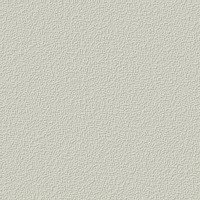
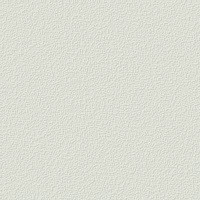
day/night mode switch is working

Changed region(s): [[0.0, 0.0, 1.0, 1.0]]

diff --git a/cr3ui/src/cruimain.cpp b/cr3ui/src/cruimain.cpp
@@ -353,6 +353,7 @@ CRUIMainWidget::CRUIMainWidget()
     setId("MAIN");
     _currentSettings = LVCreatePropsContainer(); // currently active settings
     _newSettings = LVCreatePropsContainer(); // to be edited by Settings editors
+    CRLog::info("Loading settings from %s", crconfig.iniFile.c_str());
     LVStreamRef stream = LVOpenFileStream(crconfig.iniFile.c_str(), LVOM_READ);
     if (!stream.isNull())
         _currentSettings->loadFromStream(stream.get());
@@ -373,7 +374,7 @@ CRUIMainWidget::CRUIMainWidget()
     _currentSettings->setIntDef(PROP_FONT_SIZE, crconfig.defFontSize);
     _currentSettings->setColorDef(PROP_FONT_COLOR, 0x000000);
     _currentSettings->setColorDef(PROP_FONT_COLOR_DAY, 0x000000);
-    _currentSettings->setColorDef(PROP_FONT_COLOR_NIGHT, 0xFFFFFF);
+    _currentSettings->setColorDef(PROP_FONT_COLOR_NIGHT, 0xE6D577);
     _currentSettings->setColorDef(PROP_BACKGROUND_COLOR, 0xFFFFFF);
     _currentSettings->setColorDef(PROP_BACKGROUND_COLOR_DAY, 0xFFFFFF);
     _currentSettings->setColorDef(PROP_BACKGROUND_COLOR_NIGHT, 0x000000);
@@ -382,14 +383,14 @@ CRUIMainWidget::CRUIMainWidget()
     _currentSettings->setStringDef(PROP_BACKGROUND_IMAGE_ENABLED_NIGHT, "1");
     _currentSettings->setColorDef(PROP_BACKGROUND_IMAGE_CORRECTION_BRIGHTNESS, COLOR_TRANSFORM_BRIGHTNESS_NONE);
     _currentSettings->setColorDef(PROP_BACKGROUND_IMAGE_CORRECTION_BRIGHTNESS_DAY, COLOR_TRANSFORM_BRIGHTNESS_NONE);
-    _currentSettings->setColorDef(PROP_BACKGROUND_IMAGE_CORRECTION_BRIGHTNESS_NIGHT, COLOR_TRANSFORM_BRIGHTNESS_NONE);
+    _currentSettings->setColorDef(PROP_BACKGROUND_IMAGE_CORRECTION_BRIGHTNESS_NIGHT, 0x4E4E48);
     _currentSettings->setColorDef(PROP_BACKGROUND_IMAGE_CORRECTION_CONTRAST, COLOR_TRANSFORM_CONTRAST_NONE);
     _currentSettings->setColorDef(PROP_BACKGROUND_IMAGE_CORRECTION_CONTRAST_DAY, COLOR_TRANSFORM_CONTRAST_NONE);
     _currentSettings->setColorDef(PROP_BACKGROUND_IMAGE_CORRECTION_CONTRAST_NIGHT, COLOR_TRANSFORM_CONTRAST_NONE);
 
-    _currentSettings->setStringDef(PROP_BACKGROUND_IMAGE, "@paper1");
-    _currentSettings->setStringDef(PROP_BACKGROUND_IMAGE_DAY, "@paper1");
-    _currentSettings->setStringDef(PROP_BACKGROUND_IMAGE_NIGHT, "@paper1");
+    _currentSettings->setStringDef(PROP_BACKGROUND_IMAGE, "@sand1");
+    _currentSettings->setStringDef(PROP_BACKGROUND_IMAGE_DAY, "@sand1");
+    _currentSettings->setStringDef(PROP_BACKGROUND_IMAGE_NIGHT, "@sand1_dark");
     _currentSettings->setStringDef(PROP_FONT_ANTIALIASING, "1");
     _currentSettings->setStringDef(PROP_FONT_HINTING, "0");
     _currentSettings->setStringDef(PROP_FONT_KERNING_ENABLED, "1");
@@ -397,8 +398,9 @@ CRUIMainWidget::CRUIMainWidget()
     _currentSettings->setStringDef(PROP_FONT_GAMMA_INDEX, "15");
     _currentSettings->setStringDef(PROP_FONT_GAMMA_INDEX_DAY, "15");
     _currentSettings->setStringDef(PROP_FONT_GAMMA_INDEX_NIGHT, "15");
-    _currentSettings->setIntDef(PROP_INTERLINE_SPACE, 100);
+    _currentSettings->setIntDef(PROP_INTERLINE_SPACE, 120);
     _currentSettings->setIntDef(PROP_PAGE_MARGINS, 500);
+    _currentSettings->setStringDef(PROP_NIGHT_MODE, "0");
 
 
     if (_currentSettings->getCount() != oldPropCount) {
@@ -753,6 +755,26 @@ CRFileItem * CRUIMainWidget::createManualBook() {
     return f;
 }
 
+void copyDayNightSetting(CRPropRef & props, const char * from, const char * to, const char * prop) {
+    lString16 value;
+    lString8 key = lString8(prop);
+    lString8 fromKey = key + from;
+    lString8 toKey = key + to;
+    if (props->getString(fromKey.c_str(), value))
+        props->setString(toKey.c_str(), value);
+}
+
+void copyDayNightSettings(CRPropRef & props, const char * from, const char * to) {
+    copyDayNightSetting(props, from, to, PROP_FONT_COLOR);
+    copyDayNightSetting(props, from, to, PROP_APP_THEME);
+    copyDayNightSetting(props, from, to, PROP_BACKGROUND_IMAGE_ENABLED);
+    copyDayNightSetting(props, from, to, PROP_BACKGROUND_IMAGE_CORRECTION_BRIGHTNESS);
+    copyDayNightSetting(props, from, to, PROP_BACKGROUND_IMAGE_CORRECTION_CONTRAST);
+    copyDayNightSetting(props, from, to, PROP_BACKGROUND_COLOR);
+    copyDayNightSetting(props, from, to, PROP_BACKGROUND_IMAGE);
+    copyDayNightSetting(props, from, to, PROP_FONT_GAMMA_INDEX);
+}
+
 /// handle menu or other action
 bool CRUIMainWidget::onAction(const CRUIAction * action) {
     if (!action)
@@ -771,6 +793,25 @@ bool CRUIMainWidget::onAction(const CRUIAction * action) {
     case CMD_SHOW_FOLDER:
         showFolder(action->sparam, false);
         return true;
+    case CMD_NIGHT_MODE:
+    case CMD_DAY_MODE:
+    case CMD_TOGGLE_NIGHT_MODE:
+        {
+            CRPropRef props = initNewSettings();
+            if (props->getBoolDef(PROP_NIGHT_MODE, false)) {
+                // to day mode
+                copyDayNightSettings(props, "", ".night");
+                copyDayNightSettings(props, ".day", "");
+                props->setBool(PROP_NIGHT_MODE, false);
+            } else {
+                // to night mode
+                copyDayNightSettings(props, "", ".day");
+                copyDayNightSettings(props, ".night", "");
+                props->setBool(PROP_NIGHT_MODE, true);
+            }
+            applySettings();
+            return true;
+        }
     case CMD_HELP:
         {
             CRFileItem * book = createManualBook();

diff --git a/cr3ui/src/cruiconfig.cpp b/cr3ui/src/cruiconfig.cpp
@@ -378,14 +378,23 @@ void CRUIConfig::initEngine(bool setLogger) {
     CRSetupDirectoryCacheManager();
 
     resourceResolver->addBackground(new CRUIBackgroundImageResource(lString8("@paper1"), lString8(STR_RESOURCE_BACKGROUND_NAME_PAPER2), lString8("tx_paper.jpg")));
+    resourceResolver->addBackground(new CRUIBackgroundImageResource(lString8("@paper1_dark"), lString8(STR_RESOURCE_BACKGROUND_NAME_PAPER2_DARK), lString8("tx_paper_dark.jpg")));
     resourceResolver->addBackground(new CRUIBackgroundImageResource(lString8("@oldbook1"), lString8(STR_RESOURCE_BACKGROUND_NAME_OLDBOOK1), lString8("tx_old_book.jpg")));
+    resourceResolver->addBackground(new CRUIBackgroundImageResource(lString8("@oldbook1_dark"), lString8(STR_RESOURCE_BACKGROUND_NAME_OLDBOOK1_DARK), lString8("tx_old_book_dark.jpg")));
     resourceResolver->addBackground(new CRUIBackgroundImageResource(lString8("@oldbook2"), lString8(STR_RESOURCE_BACKGROUND_NAME_OLDBOOK2), lString8("tx_old_paper.jpg")));
+    resourceResolver->addBackground(new CRUIBackgroundImageResource(lString8("@oldbook2_dark"), lString8(STR_RESOURCE_BACKGROUND_NAME_OLDBOOK2_DARK), lString8("tx_old_paper_dark.jpg")));
     resourceResolver->addBackground(new CRUIBackgroundImageResource(lString8("@fabric1"), lString8(STR_RESOURCE_BACKGROUND_NAME_FABRIC1), lString8("tx_fabric.jpg")));
+    resourceResolver->addBackground(new CRUIBackgroundImageResource(lString8("@fabric1_dark"), lString8(STR_RESOURCE_BACKGROUND_NAME_FABRIC1_DARK), lString8("tx_fabric_dark.jpg")));
     resourceResolver->addBackground(new CRUIBackgroundImageResource(lString8("@fabric2"), lString8(STR_RESOURCE_BACKGROUND_NAME_FABRIC2), lString8("tx_fabric_indigo_fibre.jpg")));
+    resourceResolver->addBackground(new CRUIBackgroundImageResource(lString8("@fabric2_dark"), lString8(STR_RESOURCE_BACKGROUND_NAME_FABRIC2_DARK), lString8("tx_fabric_indigo_fibre_dark.jpg")));
     resourceResolver->addBackground(new CRUIBackgroundImageResource(lString8("@sand1"), lString8(STR_RESOURCE_BACKGROUND_NAME_SAND1), lString8("tx_sand.jpg")));
+    resourceResolver->addBackground(new CRUIBackgroundImageResource(lString8("@sand1_dark"), lString8(STR_RESOURCE_BACKGROUND_NAME_SAND1_DARK), lString8("tx_sand_dark.jpg")));
     resourceResolver->addBackground(new CRUIBackgroundImageResource(lString8("@sand2"), lString8(STR_RESOURCE_BACKGROUND_NAME_SAND2), lString8("tx_gray_sand.jpg")));
+    resourceResolver->addBackground(new CRUIBackgroundImageResource(lString8("@sand2_dark"), lString8(STR_RESOURCE_BACKGROUND_NAME_SAND2_DARK), lString8("tx_gray_sand_dark.jpg")));
     resourceResolver->addBackground(new CRUIBackgroundImageResource(lString8("@wall1"), lString8(STR_RESOURCE_BACKGROUND_NAME_WALL1), lString8("tx_green_wall.jpg")));
+    resourceResolver->addBackground(new CRUIBackgroundImageResource(lString8("@wall1_dark"), lString8(STR_RESOURCE_BACKGROUND_NAME_WALL1_DARK), lString8("tx_green_wall_dark.jpg")));
     resourceResolver->addBackground(new CRUIBackgroundImageResource(lString8("@stones1"), lString8(STR_RESOURCE_BACKGROUND_NAME_STONES1), lString8("tx_stones.jpg")));
+    resourceResolver->addBackground(new CRUIBackgroundImageResource(lString8("@stones1_dark"), lString8(STR_RESOURCE_BACKGROUND_NAME_STONES1_DARK), lString8("tx_stones_dark.jpg")));
 
     setTheme(lString8("light"));
     setupResourcesForScreenSize();

diff --git a/cr3ui/src/cruireadwidget.cpp b/cr3ui/src/cruireadwidget.cpp
@@ -160,8 +160,11 @@ public:
 
 
 static bool isDocViewProp(const lString8 & key) {
-    return key == PROP_FONT_FACE || key == PROP_FONT_COLOR || key == PROP_FONT_WEIGHT_EMBOLDEN
-            || key == PROP_FONT_SIZE || key == PROP_FONT_FACE
+    return key == PROP_FONT_FACE
+            || key == PROP_FONT_COLOR
+            || key == PROP_FONT_WEIGHT_EMBOLDEN
+            || key == PROP_FONT_SIZE
+            || key == PROP_FONT_FACE
             || key == PROP_BACKGROUND_COLOR
             || key == PROP_INTERLINE_SPACE
             || key == PROP_BACKGROUND_IMAGE
@@ -1075,8 +1078,10 @@ void CRUIReadWidget::showReaderMenu() {
     CRUIActionList actions;
     actions.add(ACTION_BACK);
     actions.add(ACTION_SETTINGS);
-    actions.add(ACTION_NIGHT_MODE);
-    actions.add(ACTION_DAY_MODE);
+    if (_main->getSettings()->getBoolDef(PROP_NIGHT_MODE, false))
+        actions.add(ACTION_DAY_MODE);
+    else
+        actions.add(ACTION_NIGHT_MODE);
     //actions.add(ACTION_GOTO_PERCENT);
     if (hasTOC())
         actions.add(ACTION_TOC);
@@ -1158,25 +1163,29 @@ CRPropRef CRUIDocView::propsApply(CRPropRef props) {
                 || key == PROP_BACKGROUND_IMAGE_ENABLED
                 || key == PROP_BACKGROUND_IMAGE_CORRECTION_BRIGHTNESS
                 || key == PROP_BACKGROUND_IMAGE_CORRECTION_CONTRAST) {
+            propsGetCurrent()->setString(key.c_str(), props->getValue(i));
             backgroundChanged = true;
             needClearCache = true;
         }
     }
+    CRPropRef res = LVDocView::propsApply(forDocview);
     if (backgroundChanged) {
-        setBackground(resourceResolver->getBackgroundImage(newSettings));
+        //setBackground(resourceResolver->getBackgroundImage(newSettings));
+        setBackground(resourceResolver->getBackgroundImage(propsGetCurrent()));
     }
-    return LVDocView::propsApply(forDocview);
+    return res;
 }
 
 // apply changed settings
 void CRUIReadWidget::applySettings(CRPropRef changed, CRPropRef oldSettings, CRPropRef newSettings) {
-    CR_UNUSED(oldSettings);
+    CR_UNUSED2(oldSettings, newSettings);
     CRPropRef docviewprops = LVCreatePropsContainer();
     //bool backgroundChanged = false;
     bool needClearCache = false;
     for (int i = 0; i < changed->getCount(); i++) {
         lString8 key(changed->getName(i));
         lString8 value(UnicodeToUtf8(changed->getValue(i)));
+        //CRLog::trace("%s = %s", key.c_str(), value.c_str());
         if (isDocViewProp(key)) {
             docviewprops->setString(key.c_str(), value.c_str());
             if (key == PROP_FONT_COLOR) {

diff --git a/cr3ui/include/cruisettings.h b/cr3ui/include/cruisettings.h
@@ -23,8 +23,8 @@
 #define PROP_APP_INTERFACE_LANGUAGE_VALUE_SYSTEM "@system"
 
 //#define PROP_FONT_COLOR "font.color.default"
-#define PROP_FONT_COLOR_DAY        "font.color.day"
-#define PROP_FONT_COLOR_NIGHT      "font.color.night"
+#define PROP_FONT_COLOR_DAY        "font.color.default.day"
+#define PROP_FONT_COLOR_NIGHT      "font.color.default.night"
 #define PROP_BACKGROUND_IMAGE_ENABLED "background.image.enabled"
 #define PROP_BACKGROUND_IMAGE_ENABLED_DAY "background.image.enabled.day"
 #define PROP_BACKGROUND_IMAGE_ENABLED_NIGHT "background.image.enabled.night"
@@ -34,8 +34,8 @@
 #define PROP_BACKGROUND_IMAGE_CORRECTION_CONTRAST "background.image.correction.contrast"
 #define PROP_BACKGROUND_IMAGE_CORRECTION_CONTRAST_DAY "background.image.correction.contrast.day"
 #define PROP_BACKGROUND_IMAGE_CORRECTION_CONTRAST_NIGHT "background.image.correction.contrast.night"
-#define PROP_BACKGROUND_COLOR_DAY "background.color.day"
-#define PROP_BACKGROUND_COLOR_NIGHT "background.color.night"
+#define PROP_BACKGROUND_COLOR_DAY "background.color.default.day"
+#define PROP_BACKGROUND_COLOR_NIGHT "background.color.default.night"
 #define PROP_BACKGROUND_IMAGE_DAY "background.image.filename.day"
 #define PROP_BACKGROUND_IMAGE_NIGHT "background.image.filename.night"
 #define PROP_PAGE_MARGINS "page.margins"

diff --git a/cr3qt/cr3/cr3qt.cpp b/cr3qt/cr3/cr3qt.cpp
@@ -13,6 +13,7 @@
 #include <crcoverpages.h>
 
 #include <QtCore/QCoreApplication>
+#include <QtCore/QDir>
 #include <QtGui/QMouseEvent>
 
 #ifdef _LINUX
@@ -202,7 +203,15 @@ void InitCREngine(lString16 exePath) {
     crconfig.fallbackFontFace = "Arial Unicode MS";
 #endif
 
-    crconfig.setupUserDir(UnicodeToUtf8(exePath));
+    QString home = QDir::homePath();
+    QByteArray homeutf8 = home.toUtf8();
+    lString8 home8(homeutf8.constData());
+    LVAppendPathDelimiter(home8);
+    lString8 cr3dir = home8 + ".cr3";
+    LVCreateDirectory(Utf8ToUnicode(cr3dir));
+    LVAppendPathDelimiter(cr3dir);
+    //crconfig.setupUserDir(UnicodeToUtf8(exePath));
+    crconfig.setupUserDir(cr3dir);
 
     crconfig.setupResources(UnicodeToUtf8(exePath + L"res"));
     crconfig.coverDirMaxFiles = 2000;

diff --git a/cr3ui/include/stringresource.h b/cr3ui/include/stringresource.h
@@ -119,5 +119,16 @@ S(RESOURCE_BACKGROUND_NAME_OLDBOOK1)
 S(RESOURCE_BACKGROUND_NAME_OLDBOOK2)
 S(RESOURCE_BACKGROUND_NAME_STONES1)
 
+S(RESOURCE_BACKGROUND_NAME_PAPER1_DARK)
+S(RESOURCE_BACKGROUND_NAME_PAPER2_DARK)
+S(RESOURCE_BACKGROUND_NAME_FABRIC1_DARK)
+S(RESOURCE_BACKGROUND_NAME_FABRIC2_DARK)
+S(RESOURCE_BACKGROUND_NAME_SAND1_DARK)
+S(RESOURCE_BACKGROUND_NAME_SAND2_DARK)
+S(RESOURCE_BACKGROUND_NAME_WALL1_DARK)
+S(RESOURCE_BACKGROUND_NAME_OLDBOOK1_DARK)
+S(RESOURCE_BACKGROUND_NAME_OLDBOOK2_DARK)
+S(RESOURCE_BACKGROUND_NAME_STONES1_DARK)
+
 
 #endif /* STRINGRESOURCE_H_ */

diff --git a/cr3ui/src/cruifolderwidget.cpp b/cr3ui/src/cruifolderwidget.cpp
@@ -393,6 +393,10 @@ bool CRUIFolderWidget::onClick(CRUIWidget * widget) {
 bool CRUIFolderWidget::onLongClick(CRUIWidget * widget) {
     if (widget->getId() == "BACK") {
         CRUIActionList actions;
+        if (_main->getSettings()->getBoolDef(PROP_NIGHT_MODE, false))
+            actions.add(ACTION_DAY_MODE);
+        else
+            actions.add(ACTION_NIGHT_MODE);
         lString8 path = _dir->getPathName();
         lString8 lastPath = path;
         for (;;) {

diff --git a/cr3ui/src/cruihomewidget.cpp b/cr3ui/src/cruihomewidget.cpp
@@ -766,6 +766,10 @@ bool CRUIHomeWidget::onAction(const CRUIAction * action) {
         CRUIActionList actions;
         actions.add(ACTION_SETTINGS);
         actions.add(ACTION_HELP);
+        if (_main->getSettings()->getBoolDef(PROP_NIGHT_MODE, false))
+            actions.add(ACTION_DAY_MODE);
+        else
+            actions.add(ACTION_NIGHT_MODE);
         actions.add(ACTION_EXIT);
         //actions.add(ACTION_BACK);
         lvRect margins;
